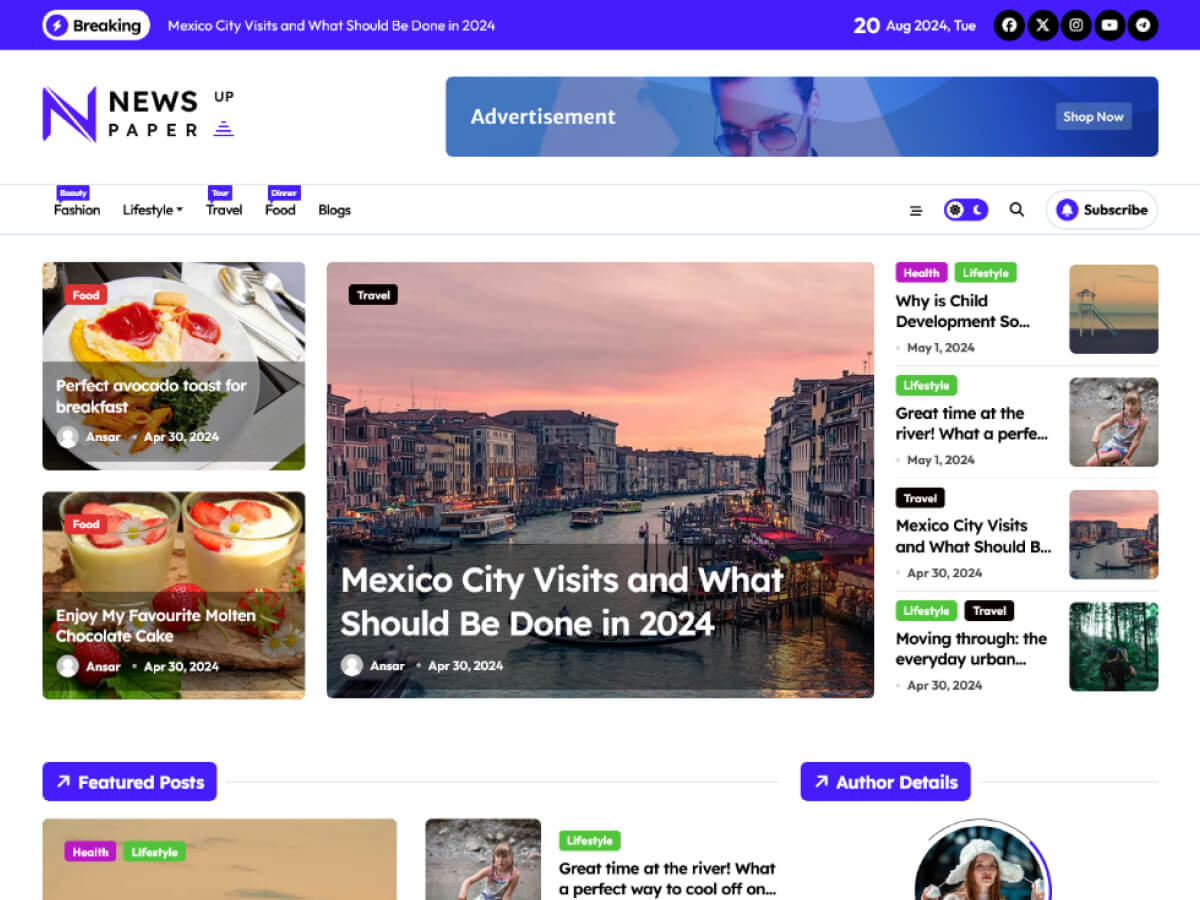
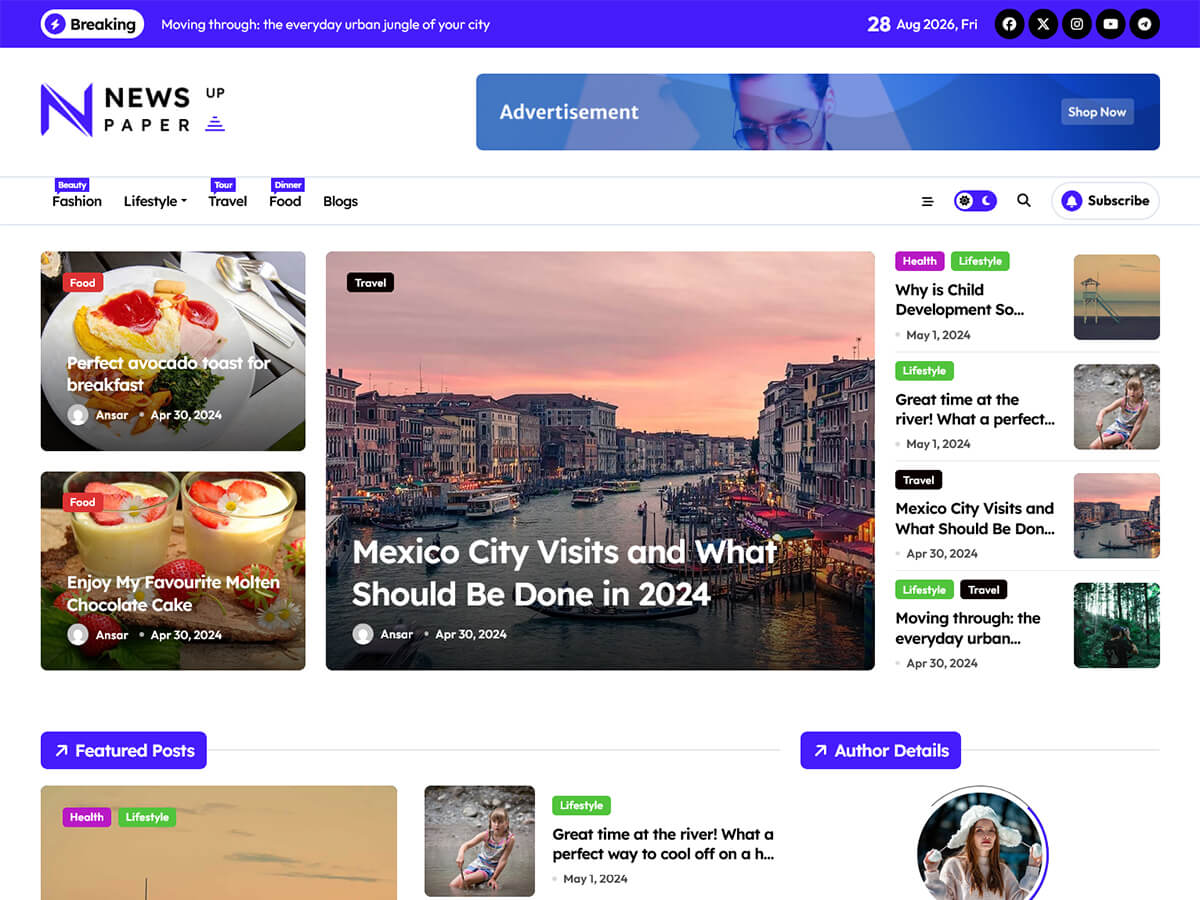
1.8.5

diff --git a/newspaperup/css/core.css b/newspaperup/css/core.css
@@ -2310,7 +2310,7 @@ footer.one .bs-footer-copyright {
 .bs-blog-post.three .inner {
   position: absolute;
   bottom: 0;
-  padding: 15px;
+  padding: 25px;
   z-index: 4;
   bottom: 0;
   right: 0;
@@ -2318,8 +2318,7 @@ footer.one .bs-footer-copyright {
   display: flex;
   justify-content: flex-end;
   flex-direction: column;
-  backdrop-filter: blur(8px);
-  margin-bottom: 10px;
+  margin-bottom: 0px;
 }
 .bs-blog-post.three .inner:after {
   position: absolute;
@@ -2329,7 +2328,7 @@ footer.one .bs-footer-copyright {
   left: 0;
   top: 0;
   z-index: -1;
-  background-color: rgba(0, 0, 0, 0.4);
+  background-image: linear-gradient(to bottom, rgba(255, 255, 255, 0) 0, rgba(0, 0, 0, 0.4) 50%, rgba(0, 0, 0, 0.7) 100%);
 }
 
 /* --blog--four-- */
@@ -2686,11 +2685,12 @@ footer.one .bs-footer-copyright {
   margin-bottom: 15px;
 }
 .bs-blog-post .title-wrap .title {
-  flex-basis: 78%;
+  flex-basis: 100%;
   margin-bottom: 0;
 }
 .bs-blog-post .title-wrap .btn-wrap {
   flex-shrink: 0;
+  display: none;
 }
 .bs-blog-post .title-wrap .btn-wrap a {
   width: 40px;
@@ -4465,6 +4465,9 @@ textarea#comment {
 
 .missedslider .bs-blog-post {
   box-shadow: none;
+}
+.missedslider .bs-blog-post .inner .title-wrap {
+  margin-bottom: 0;
 }
 .missedslider .bs-blog-post .bs-blog-category {
   display: inline-flex;

diff --git a/newspaperup/css/_blog.scss b/newspaperup/css/_blog.scss
@@ -207,7 +207,7 @@
     .inner {
         position: absolute;
         bottom: 0;
-        padding: 15px;
+        padding: 25px;
         z-index: 4; 
         bottom: 0;
         right: 0;
@@ -215,8 +215,7 @@
         display: flex;
         justify-content: flex-end;
         flex-direction: column;
-        backdrop-filter: blur(8px);
-        margin-bottom: 10px;
+        margin-bottom: 0px;
     }
     .inner:after {
         position: absolute;
@@ -226,7 +225,7 @@
         left: 0;
         top: 0;
         z-index: -1;
-        background-color: rgba(0, 0, 0, 0.4);
+        background-image: linear-gradient(to bottom,#fff0 0,rgb(0 0 0 / .4) 50%,rgb(0 0 0 / .7) 100%);
     }
 }
 /* --blog--four-- */
@@ -585,11 +584,12 @@
         gap: 15px;
         margin-bottom: 15px;
         .title {
-            flex-basis: 78%;
+            flex-basis: 100%;
             margin-bottom: 0;
         }
         .btn-wrap {
             flex-shrink: 0;
+            display: none;
             a {
                 width: 40px;
                 height: 40px;

diff --git a/newspaperup/style-rtl.css b/newspaperup/style-rtl.css
@@ -4,7 +4,7 @@ Theme URI: https://themeansar.com/free-themes/newspaperup-free-magazine-blog-wor
 Author: Themeansar
 Author URI: http://themeansar.com
 Description: Newspaperup is a fast, clean, modern-looking Best Responsive News Magazine WordPress theme. The theme is fully widgetized, so users can manage the content by using easy to use widgets. Newspaperup is suitable for dynamic news, newspapers, magazine, publishers, blogs, editors, online and gaming magazines, newsportals,personal blogs, newspaper, publishing or review siteand any creative website. Newspaperup is SEO friendly, WPML,Gutenberg, translation and RTL ready. Live preview : https://demos.themeansar.com/newspaperup and documentation at https://docs.themeansar.com/docs/newspaperup/
-Version: 1.8.4
+Version: 1.8.5
 Tested up to: 7.0
 Requires PHP: 7.4
 Requires at least: 6.7

diff --git a/newspaperup/style.css b/newspaperup/style.css
@@ -4,7 +4,7 @@ Theme URI: https://themeansar.com/free-themes/newspaperup-free-magazine-blog-wor
 Author: Themeansar
 Author URI: http://themeansar.com
 Description: Newspaperup is a fast, clean, modern-looking Best Responsive News Magazine WordPress theme. The theme is fully widgetized, so users can manage the content by using easy to use widgets. Newspaperup is suitable for dynamic news, newspapers, magazine, publishers, blogs, editors, online and gaming magazines, newsportals,personal blogs, newspaper, publishing or review siteand any creative website. Newspaperup is SEO friendly, WPML,Gutenberg, translation and RTL ready. Live preview : https://demos.themeansar.com/newspaperup and documentation at https://docs.themeansar.com/docs/newspaperup/
-Version: 1.8.4
+Version: 1.8.5
 Tested up to: 7.0
 Requires PHP: 7.4
 Requires at least: 6.7

diff --git a/newspaperup/css/_section.scss b/newspaperup/css/_section.scss
@@ -74,6 +74,9 @@
 // missed slider
 .missedslider .bs-blog-post {
     box-shadow: none;
+	.inner .title-wrap{
+		margin-bottom: 0;
+	}
 
 	.bs-blog-category{
 		display: inline-flex;
